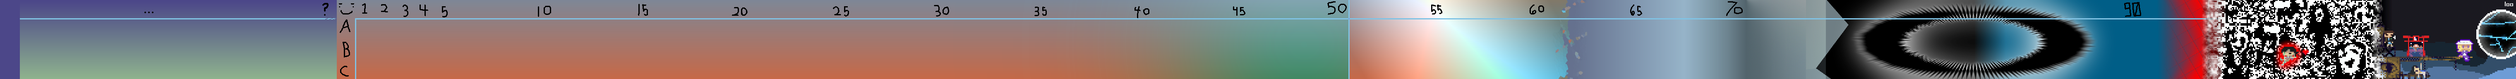
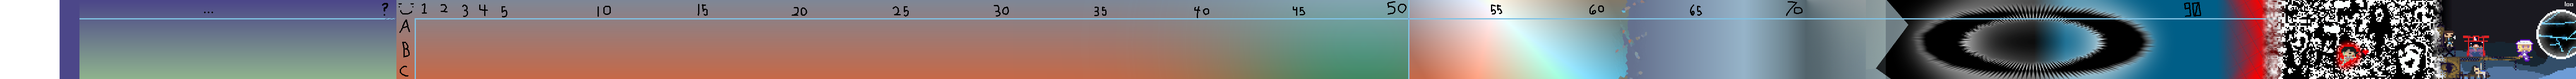
one step

diff --git a/index.html b/index.html
@@ -83,16 +83,20 @@ var pixeltotal = 0;
 const version = 1.1;
 
 var suzumi = [
+[new pixelguy(["???"], [""], "???", "", true)],
+
+
+
+[new pixelguy(["Ms. Sakura", "sakura", "sensei"], [""], "", "")],
+
+[new pixelguy(["Hal", "haru"], [""], "", ""),],
+
 [new pixelguy(["KawaiiAngel", "kangel"], ["internet"], "Ame", "Have you, too, overdosed on internet?\nWell, get in line, and get in chat.\nhey kangel"),
 new pixelguy(["Ame", "rain"], ["internet"], "NEEDY GIRL OVERDOSE", "comment")],
 
 [new pixelguy(["GilvaSunner", "gilva"], ["user"], "TimmyTurnersDad", "YOU WILL BE MISSED MY FRIEND\nGILVASUNNER, 2010-2022, THANK YOU FOR EVERYTHING\nTHEY WERE THE HIGHEST QUALITY RIPS ANYONE COULD ASK FOR"),
 new pixelguy(["SiIvaGunner", "siiva", "giiva"], ["user"], "GiIvasunner", ""),
 new pixelguy(["VvvvvaVvvvvvr", "vavr"], ["user"], "your mom", "megalovania ([...]) - mario, my favorite video game soundtracks song\ntanx u 4 evryfing!")],
-
-[new pixelguy(["Chiyuri Kitashirasawa", "chiyuri"], ["game"], "Touhou Yumejikuu ~\nPhantasmagoria of Dim. Dream", "comment"),
-new pixelguy(["Yumemi Okazaki", "yumemi"], ["game"], "Touhou Yumejikuu ~\nPhantasmagoria of Dim. Dream", "comment"),
-new pixelguy(["Kakkoi"], ["game"], "Gensokyo Odyssey", "comment")],
 
 [new pixelguy(["Eddie Ox", "eddie", "ox"], ["???"], "???", "It is said that idle hands are the devil's playthings.\nWhat, then, when the gods become idle...?", true)],
 
@@ -142,8 +146,7 @@ new pixelguy(["Jitomi Monoe", "monoe", "jitomi"], ["virtual"], "VOMS Project", "
 new pixelguy(["midi-heavens (Fonts 5)", "fonts", "5", "heaven"], ["game"], "Fonts 5 -\nEvanescence, it is personified!\nAs that inferno fluctuates, so\ndoes the penultimate of the heptads,\nthe one commanding the\niconoclastic apparitions!\nAt world end, rock and heaven,\nsoul and sea, fade,\nyet it does not matter.\nFor that melody had\nlong since saved all.\nIt has already reached\n[AMORTALITY]", "Reach [AMORTALITY].\nBring the broken world back together.\nespeon78.itch.io/amortality"),
 new pixelguy(["default (Pump-It-Up)", "piu", "default", "pump"], ["game"], "Pump-It-Up", "REVIEW: a lot better than arcade DDR.\nSong selection doesn't have nearly as many classics, but the originals can be great.\nI'm way better at it than DDR.")],
 
-[new pixelguy(["name"], ["type"], "source", "comment"),
-new pixelguy(["Kasen Ibaraki", "kasen", "sage", "ibaraki"], ["manga"], "Touhou Ibarakasen ~\nWild and Horned Hermit", "hermits when their immortality hits 5 ressurections per worldly desire"),
+[new pixelguy(["Kasen Ibaraki", "kasen", "sage", "ibaraki"], ["manga"], "Touhou Ibarakasen ~\nWild and Horned Hermit", "hermits when their immortality hits 5 ressurections per worldly desire"),
 new pixelguy(["Ibaraki-douji", "ibaraki", "douji"], ["game"], "Fate/Grand Order", "<THIS IS NOT AN ENDORSEMENT OF FATE/GRAND ORDER>\n<THIS USER DOES NOT CONDONE FATE/GRAND ORDER'S EXISTENCE>\n...But there's at least one or two cool guys in there, right?")],
 
 [new pixelguy(["Frisk"], ["game"], "UNDERTALE", "* Heck Yeah\n* Heck Yeah\n* Heck Yeah\n* Heck Yeah"),
@@ -184,7 +187,8 @@ new pixelguy(["Among You", "you", "aeon"], ["player"], "Aeon", "one of the kille
 new pixelguy(["Among Drip", "drip"], ["fanon"], "Artifact Studios", "I use this little bastard as a test sprite everywhere. It's still one of my favorites.")],
 
 [new pixelguy(["Chara", "human", "player", "determination"], ["game"], "UNDERTALE", "* Determination."),
-new pixelguy(["Core!Frisk", "void", "core", "xtale", "underverse"], ["fanon"], "Underverse", "I haven't actually watched it. I just think they look cool.")],
+new pixelguy(["Core!Frisk", "void", "core", "xtale", "underverse"], ["fanon"], "Underverse", "I haven't actually watched it. I just think they look cool."),
+new pixelguy(["Zhtton"], ["game"], "JoyTale", "", true)],
 
 [new pixelguy(["Nagito Komaeda", "nagito", "komaeda", "kanye"], ["game"], "Super Danganronpa 2:\nGoodbye Despair", "fingers in his ass, fingers in his ass..."),
 new pixelguy(["Nagito Komaeda (student)", "3", "student"], ["anime"], "Danganronpa 3:\nKilling Harmony", "This guy is special because he had a perfect stage and audience to\nflaunt his extreme ideals and devicive methods."),
@@ -197,13 +201,15 @@ new pixelguy(["Yukari Yakumo (casual)", "casual", "yukari", "maribel", "gap"], [
 
 [new pixelguy(["Blue Poison", "blue", "poison"], ["game"], "Arknights", "I can't approve of gacha, but I have to say that Hypergryph's interpretation of\nPlants vs. Zombies is a pretty good successor."),
 new pixelguy(["Mostima (with drip)", "mostima", "drip"], ["game and game"], "Arknights\nanumania.xyz/MostimaARG", "LOCK OF SHATTERED TIME?\nWHY DONT YOU SPEND SOME TIME WITH SOME BITCHES", true),
-new pixelguy(["2pac", "tupac"], ["real and game"], "Tupac Shakur\nanumania.xyz/MostimaARG", "Listen, I really wanted the final pixelcount to be 200.\nThis was necessary.\n15 are special ones so they don't show up on the counter, but can you get them all?", true)],
+new pixelguy(["Conviction"], ["game"], "Arknights", "2pac used to be here. I kinda put him in out of necessity,\nand I didn't like how he turned out, so Conviction is here instead.\nI would like to tell all Conviction haters to \"cope\" and \"shit your pants\".", false)],
+//new pixelguy(["2pac", "tupac"], ["real and game"], "Tupac Shakur\nanumania.xyz/MostimaARG", "Listen, I really wanted the final pixelcount to be 200.\nThis was necessary.\n15 are special ones so they don't show up on the counter, but can you get them all?", true)],
 
 [new pixelguy(["Lea"], ["game"], "CrossCode", "CrossCode is my favorite game, but it shows up so early here.\nIf I knew I was going to do 100, I probably would have saved it."),
 new pixelguy(["Shizuka Sakai", "shizuka", "sakai"], ["game"], "CrossCode", "Well, I think they turned out alright.")],
 
 [new pixelguy(["snart_____", "snart"], ["player"], "dumbfuck_kingtut", "Oh? You had the misfortune of meeting snart? I hope you can recover.", true),
-new pixelguy(["KARR0TSTICK", "carrot", "karrot", "carr0t", "karr0t", "stick"], ["player"], "dumbfuck_kingtut", "And don't be fooled by its shadow self.", true)],
+new pixelguy(["KARR0TSTICK", "carrot", "karrot", "carr0t", "karr0t", "stick"], ["player"], "dumbfuck_kingtut", "And don't be fooled by its shadow self.", true),
+new pixelguy(["Technoblade", "techno"], ["player"], "himself", "A feature from the pixelchallenge DLC.\nI hope putting new ones in like this hasn't mesesd up\nthe almost-chronologicalness of the pixelchallenge too badly.")],
 
 [new pixelguy(["Isaac"], ["game"], "The Binding of Isaac", "The shortest pixelguy so far.\nYou can see I had trouble differentiating his arms, so they're just shaded.\nYou can also see this in mister 22\n.I got better at it eventually."),
 new pixelguy(["Isaac\n(Brimstone + Technology 2)", "brimstone", "brim", "technology", "tech"], ["game"], "The Binding of Isaac", "Some og runwinners. Not as good anymore, but you can't pass up a blood laser barrage."),
@@ -301,7 +307,8 @@ new pixelguy(["Peacock (alt)", "alt", "color", "colour", "black"], ["game"], "Sk
 new pixelguy(["L.A.M.A.⅃", "l.a.m.a.j", "lamaj", "l.a.m.a.l", "lamal"], ["misc."], "SiIvagunner", "I know I'm gonna receive a lotta hate for this, and it really is\na close fight, but I think LamaJ comes out on top."),
 new pixelguy(["ƎЯIOIOIRE", "erioioire"], ["misc."], "SiIvagunner", "didn't they just play that winnie the pooh flash for like four hours while debating that? never change, siiva.\nahhh, i should have done some kfad for the pixelchallenge.")],
 
-[new pixelguy(["Boshy"], ["\"game\""], "I Wanna Be The Boshy", "lol u died")],
+[new pixelguy(["Boshy"], ["\"game\""], "I Wanna Be The Boshy", "lol u died"),
+new pixelguy(["Ash"], ["game"], "The End Is Nigh", "")],
 
 [new pixelguy(["George Gus", "george", "gus"], ["misc."], "Anime Character Generator", "We really just put everything we could on one monster. It barely fit in 16x16.", true),
 new pixelguy(["Amon Gus", "amon", "gus"], ["misc."], "Anime Character Generator", "Amen.", true)],
@@ -317,7 +324,8 @@ new pixelguy(["Claire Elford (young)", "kid", "young"], ["game"], "Witch's Heart
 new pixelguy(["Little Mac (jacket)", "hoodie", "jacket", "alt", "skin", "color", "colour", "run", "train"], ["game"], "Punch Out!!", "Wait, is it okay to say other pixeldude's names?\nWhatever, you probably have them if you're this far."),
 new pixelguy(["Little Mac (wireframe)", "wireframe", "alt", "skin", "color", "colour", "arcade"], ["game"], "Punch Out!! (arcade)", "By the way, I main Little Mac (and Robin).\nFor real and seriously I just like the way he moves.")],
 
-[new pixelguy(["Reimu (PC98)", "reimu", "98"], ["game"], "Touhou 1", "She's a bit tall, isn't she? The miko outfit is too cool to be wasted, though.")],
+[new pixelguy(["Reimu (PC98)", "reimu", "98"], ["game"], "Touhou 1", "She's a bit tall, isn't she? The miko outfit is too cool to be wasted, though."),
+new pixelguy(["Satobi Hakurei"], ["satobi"], "YUKARI", "")],
 
 [new pixelguy(["Akari Mizunashi (summer)", "akari", "summer"], ["anime"], "Aria", "That unending sea..."),
 new pixelguy(["Akari Mizunashi (winter)", "winter"], ["anime"], "Aria", "That azure sky...")],
@@ -326,7 +334,9 @@ new pixelguy(["Akari Mizunashi (winter)", "winter"], ["anime"], "Aria", "That az
 new pixelguy(["Oriental Insomniac (miss)", "damage", "miss", "insomniac"], ["game"], "Rhythm Doctor", "Nothing sold me on the game like Super Oriental Insomniac."),
 new pixelguy(["Oriental Insomniac (dead)", "dead", "fail", "lost", "lose", "insomniac"], ["game"], "Rhythm Doctor", "he dead boy he dead u fucked up")],
 
-[new pixelguy(["Mike Gotokuji", "mike", "michael"], ["game"], "Touhou Kouryuudou ~\nUnconnected Marketeers", "MICHAEL (he is michael)")],
+[new pixelguy(["Mike Gotokuji", "mike", "michael"], ["game"], "Touhou Kouryuudou ~\nUnconnected Marketeers", "MICHAEL (he is michael)"),
+new pixelguy(["Chiyuri Kitashirasawa", "chiyuri"], ["game"], "Touhou Yumejikuu ~\nPhantasmagoria of Dim. Dream", "comment"),
+new pixelguy(["Yumemi Okazaki", "yumemi"], ["game"], "Touhou Yumejikuu ~\nPhantasmagoria of Dim. Dream", "comment")],
 
 
 
@@ -405,13 +415,15 @@ new pixelguy(["Gothic Anime Girl (common edit)", "goth", "cross", "anime", "edit
 [new pixelguy(["Shanghai", "doll"], ["game"], "Touhou Youyoumu ~\nPerfect Cherry Blossom\nResonant Automata", "Directly from a jam game I made called Resonant Automata.\nThere were 16 days to make it, but I didn't decide to enter until the final one."),
 new pixelguy(["Hourai", "broken"], ["game"], "Touhou Youyoumu ~\nPerfect Cherry Blossom\nResonant Automata", "This specific design isn't official, since it's a broken doll.\nNo use for those in spellcards.")],
 
-[new pixelguy(["Marisa Kirisame", "marisa", "doll"], ["game"], "Touhou Fuumaroku ~\nthe Story of Eastern Wonderland", "Why did translators stop putting in the ze? It's awesome.")],
+[new pixelguy(["Marisa Kirisame", "marisa", "doll"], ["game"], "Touhou Fuumaroku ~\nthe Story of Eastern Wonderland", "Why did translators stop putting in the ze? It's awesome."),
+new pixelguy(["Kakkoi"], ["game"], "Gensokyo Odyssey", "comment")],
 
 [new pixelguy(["Stephanie Lawson Stephens", "stephanie", "lawson"], ["game?"], "Stephanie Lawson Stephens", "A real lucky drop from the VNDB random button, but I had no idea what I was getting myself into."),
 new pixelguy(["Stephanie Lazarus Stephens", "lazarus"], ["game?"], "Stephanie Lazarus Stephens", ":)")],
 
 [new pixelguy(["Fuku Tohri", "fuku", "aeon", "minecraft", "thing"], ["player"], "Aeon", "Giving my own Minecraft skin such a name?\nNah, she's too cool to be stuck on blockgame.\nOne of these days, she'll probably meet the mediator.", true),
-new pixelguy(["when the im.png", "sus", "jerma", "impostor", "test", "when"], ["file"], "i made it", "when the um if the impostor was there was going to be an impostor and he could um if he was could have been any of us you wouldnt really like probably um actually dont worry about it", true)],
+new pixelguy(["when the im.png", "sus", "jerma", "impostor", "test", "when"], ["file"], "i made it", "when the um if the impostor was there was going to be an impostor and he could um if he was could have been any of us you wouldnt really like probably um actually dont worry about it", true),
+new pixelguy(["s_mistake", "mistake"], ["file"], "i made it", "", true)],
 
 [new pixelguy(["Kyoka Itazura", "kyoka", "bread man gf", "girlfriend"], ["game"], "Bread Man: the Visual Novel", "Future-knowing anachronist.", true)],
 
